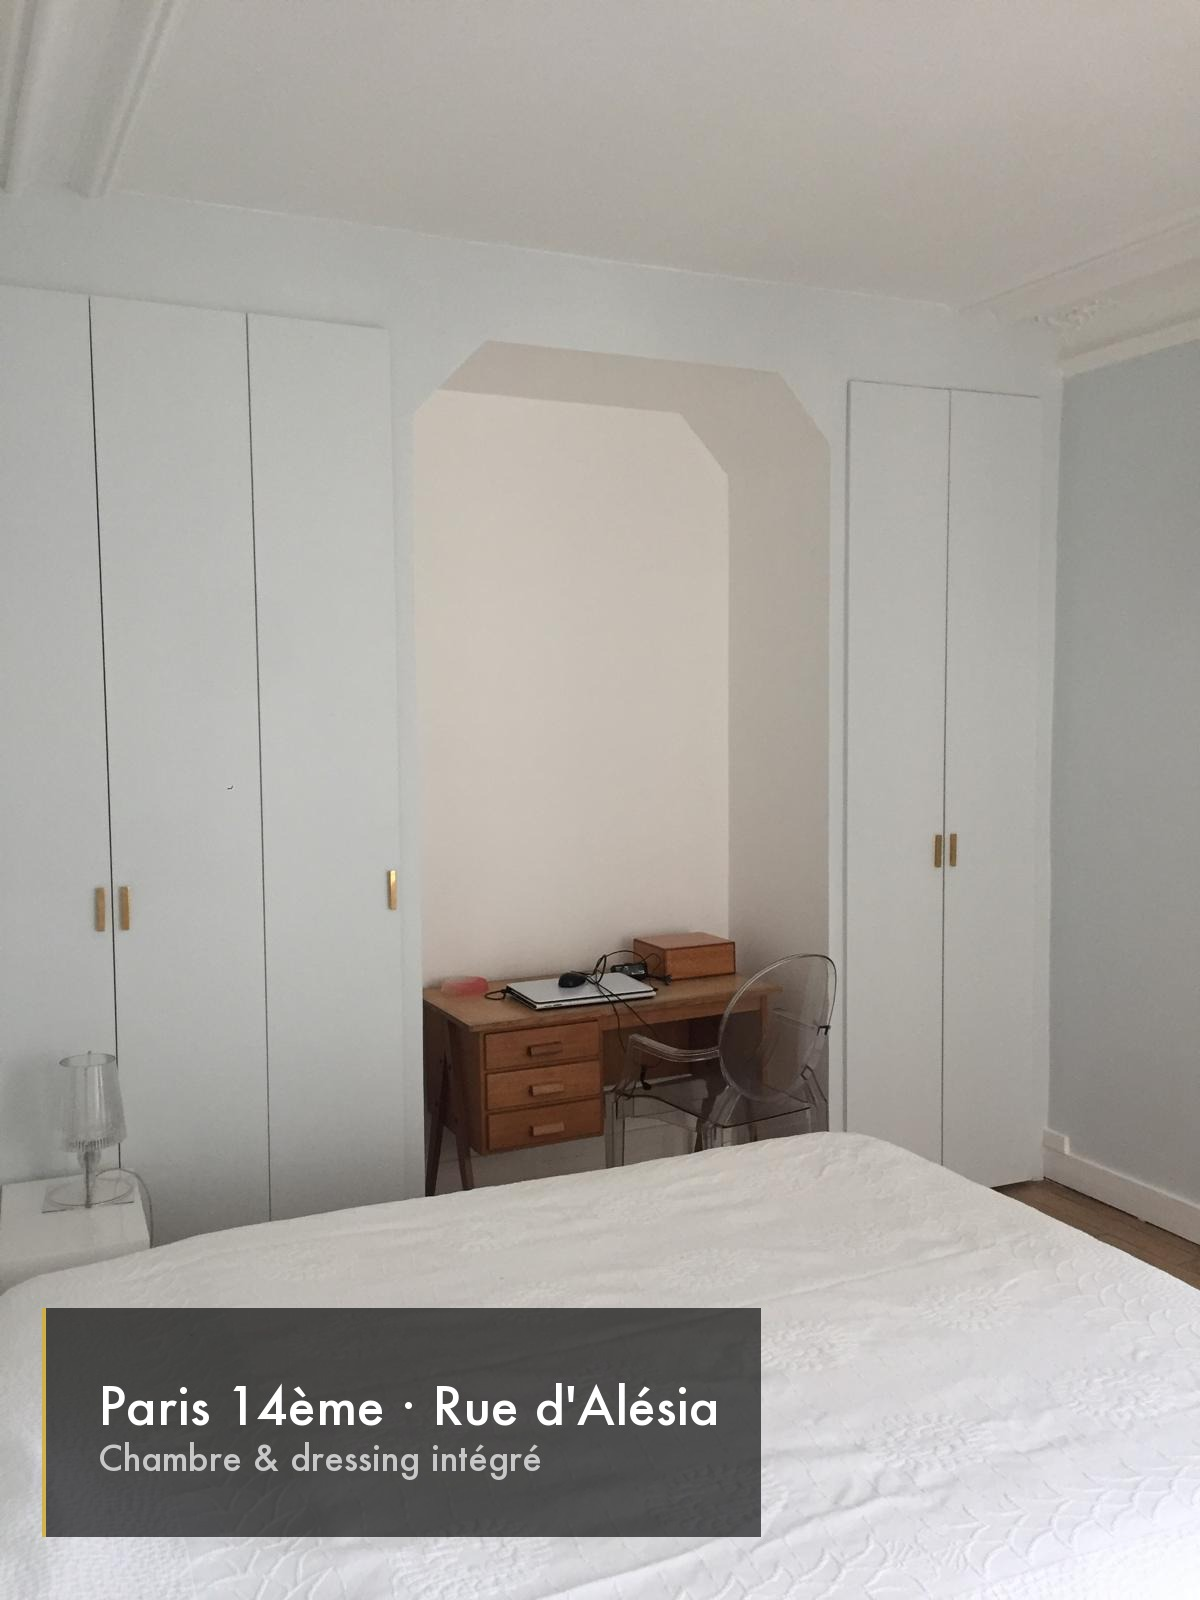
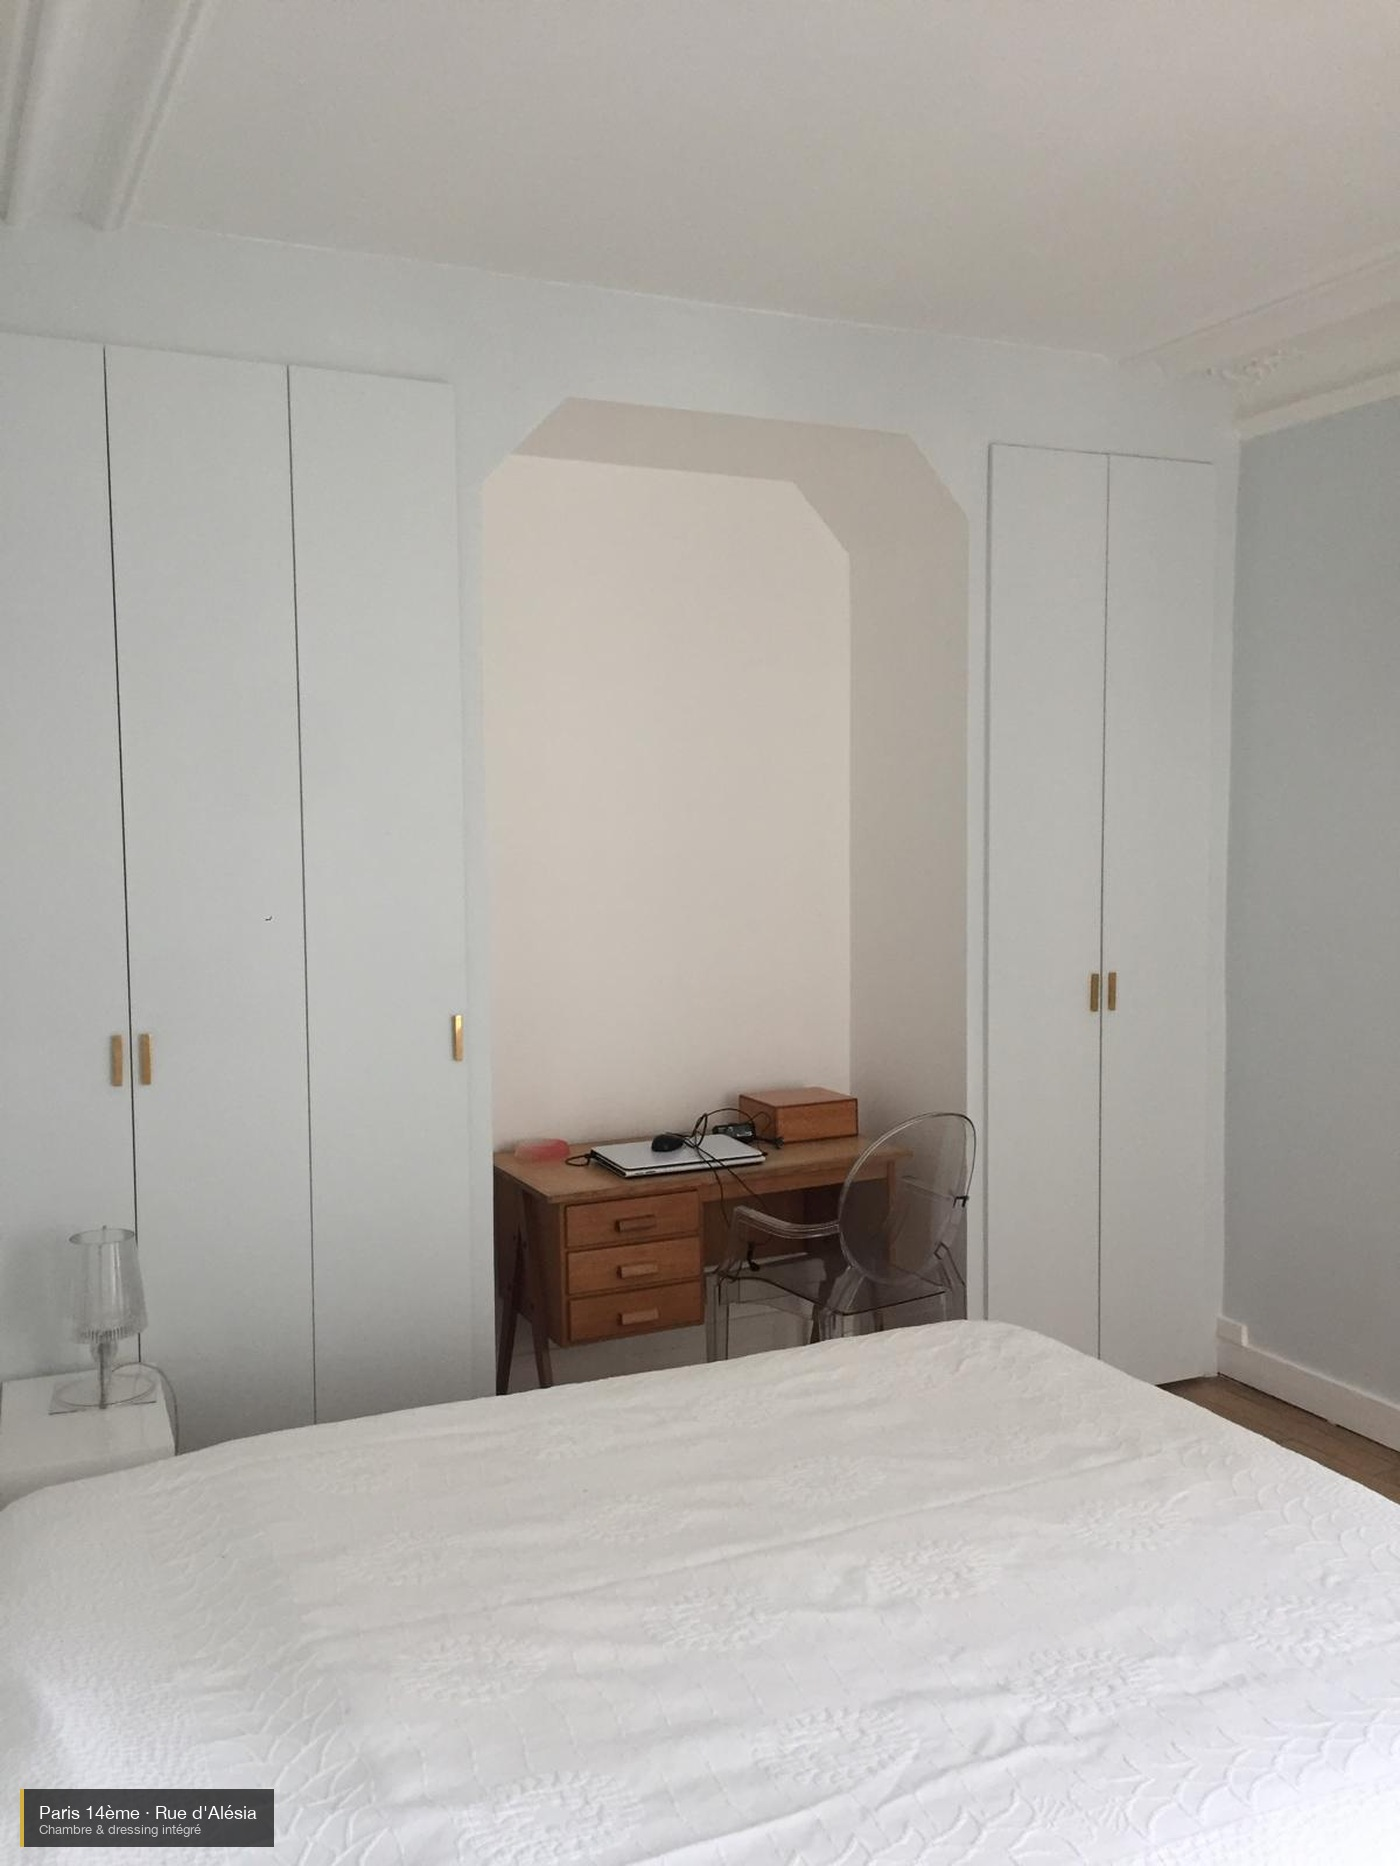
Photos overlay homogène + barre appel/devis mobile en haut de page

Changed region(s): [[0.0, 0.8125, 0.6475, 1.0]]

diff --git a/src/components/Header.tsx b/src/components/Header.tsx
@@ -15,7 +15,18 @@ export default function Header() {
   const [open, setOpen] = useState(false)
 
   return (
-    <header className="fixed top-0 left-0 right-0 z-50 bg-white/98 backdrop-blur-sm border-b border-gray-100/80">
+    <header className="fixed top-0 left-0 right-0 z-50">
+      {/* Barre appel mobile — visible dès l'arrivée */}
+      <div className="md:hidden bg-[#1C1C1C] text-white flex items-center justify-between px-4 py-2.5 gap-2">
+        <a href="tel:+33611783867" className="flex items-center gap-2 text-sm font-light tracking-wide">
+          <Phone size={14} />
+          <span>06 11 78 38 67</span>
+        </a>
+        <a href="/contact" className="bg-[#B8960C] text-white text-xs font-medium px-3 py-1.5 rounded tracking-wide">
+          Devis gratuit
+        </a>
+      </div>
+      <div className="bg-white/98 backdrop-blur-sm border-b border-gray-100/80">
       <div className="max-w-6xl mx-auto px-4 sm:px-6">
         <div className="flex items-center justify-between h-16 sm:h-20">
           {/* Logo */}
@@ -59,6 +70,8 @@ export default function Header() {
             {open ? <X size={22} /> : <Menu size={22} />}
           </button>
         </div>
+      </div>
+
       </div>
 
       {/* Mobile nav */}

diff --git a/public/photos/add_location.py b/public/photos/add_location.py
@@ -1,0 +1,120 @@
+#!/usr/bin/env python3
+"""
+Génère toutes les photos avec un overlay homogène identique à l'exemple.
+Tailles FIXES — indépendantes des dimensions de la photo originale.
+"""
+
+from PIL import Image, ImageDraw, ImageFont
+import os
+
+PHOTOS_DIR = os.path.dirname(os.path.abspath(__file__))
+OUTPUT_DIR = os.path.join(PHOTOS_DIR, "selected")
+os.makedirs(OUTPUT_DIR, exist_ok=True)
+
+SELECTION = [
+    { "src": "WhatsApp Image 2026-04-19 at 11.42.36.jpeg",     "out": "01-salon-parisien-bibliotheque.jpg",  "lieu": "Paris 7ème · Avenue de Breteuil",         "desc": "Salon & bibliothèque sur-mesure" },
+    { "src": "WhatsApp Image 2026-04-19 at 11.42.36 (1).jpeg", "out": "02-bibliotheque-led.jpg",             "lieu": "Paris 16ème · Rue de la Pompe",            "desc": "Bibliothèque éclairée LED" },
+    { "src": "WhatsApp Image 2026-04-19 at 11.42.36 (3).jpeg", "out": "03-buffet-led.jpg",                  "lieu": "Paris 8ème · Boulevard Haussmann",         "desc": "Buffet sur-mesure & éclairage intégré" },
+    { "src": "WhatsApp Image 2026-04-19 at 11.43.47.jpeg",     "out": "04-terrasse-vue-paris.jpg",          "lieu": "Paris 9ème · Rue La Fayette",             "desc": "Terrasse — lames composite" },
+    { "src": "WhatsApp Image 2026-04-19 at 11.43.53.jpeg",     "out": "05-terrasse-ciel-bleu.jpg",          "lieu": "Paris 17ème · Avenue des Ternes",         "desc": "Terrasse — vue dégagée" },
+    { "src": "WhatsApp Image 2026-04-19 at 11.47.48 (3).jpeg", "out": "06-salon-eclairage-theatre.jpg",     "lieu": "Paris 6ème · Rue de Vaugirard",           "desc": "Salon — éclairage architectural" },
+    { "src": "WhatsApp Image 2026-04-19 at 11.47.48 (4).jpeg", "out": "07-open-space-cuisine.jpg",         "lieu": "Paris 12ème · Avenue Daumesnil",          "desc": "Open space cuisine & séjour" },
+    { "src": "WhatsApp Image 2026-04-19 at 11.47.47.jpeg",     "out": "08-couloir-moderne.jpg",            "lieu": "Paris 15ème · Rue de la Convention",      "desc": "Couloir & aménagement global" },
+    { "src": "WhatsApp Image 2026-04-19 at 11.47.48 (2).jpeg", "out": "09-chambre-tete-lit.jpg",           "lieu": "Paris 11ème · Boulevard Voltaire",        "desc": "Chambre — tête de lit & dressing" },
+    { "src": "WhatsApp Image 2026-04-19 at 11.47.48 (6).jpeg", "out": "10-appartement-globe.jpg",          "lieu": "Paris 3ème · Rue du Temple",              "desc": "Rénovation complète appartement" },
+    { "src": "WhatsApp Image 2026-04-19 at 11.47.48 (7).jpeg", "out": "11-chambre-dressing.jpg",           "lieu": "Paris 14ème · Rue d'Alésia",              "desc": "Chambre & dressing intégré" },
+    { "src": "WhatsApp Image 2026-04-19 at 11.47.47 (2).jpeg", "out": "12-salle-bain.jpg",                 "lieu": "Paris 10ème · Faubourg Saint-Denis",      "desc": "Salle de bain — carreaux de ciment" },
+    { "src": "WhatsApp Image 2026-04-19 at 11.47.48.jpeg",     "out": "13-bureau-dressing.jpg",            "lieu": "Paris 13ème · Avenue de Choisy",          "desc": "Bureau & dressing sur-mesure" },
+    { "src": "WhatsApp Image 2026-04-19 at 11.42.37.jpeg",     "out": "14-meuble-tv-beton.jpg",            "lieu": "Paris 5ème · Rue Mouffetard",             "desc": "Meuble TV effet béton ciré" },
+    { "src": "WhatsApp Image 2026-04-19 at 11.47.48 (9).jpeg", "out": "15-chambre-niche-led.jpg",          "lieu": "Paris 4ème · Île Saint-Louis",            "desc": "Chambre — niche & rangement éclairé" },
+]
+
+# ─── Paramètres FIXES pour overlay homogène ───────────────────────────────
+TARGET_WIDTH  = 1400          # toutes les photos normalisées à cette largeur
+FONT_SIZE_LIEU = 18           # taille fixe adresse
+FONT_SIZE_DESC = 13           # taille fixe description
+PAD_X  = 16                   # padding horizontal intérieur
+PAD_Y  = 12                   # padding vertical intérieur
+BORDER = 3                    # épaisseur trait doré gauche
+GAP    = 6                    # espace entre les deux lignes de texte
+MARGIN = 20                   # marge depuis le bord de la photo
+GOLD   = (212, 175, 55, 240)  # couleur trait doré
+BG     = (15, 15, 15, 185)    # fond sombre semi-transparent
+
+font_paths = [
+    "/System/Library/Fonts/HelveticaNeue.ttc",
+    "/System/Library/Fonts/Helvetica.ttc",
+    "/Library/Fonts/Arial.ttf",
+    "/System/Library/Fonts/Arial.ttf",
+]
+
+def load_font(size):
+    for fp in font_paths:
+        if os.path.exists(fp):
+            try:
+                return ImageFont.truetype(fp, size)
+            except Exception:
+                continue
+    return ImageFont.load_default()
+
+font_lieu = load_font(FONT_SIZE_LIEU)
+font_desc = load_font(FONT_SIZE_DESC)
+
+def process(src_path, out_path, lieu, desc):
+    img = Image.open(src_path).convert("RGB")
+    W, H = img.size
+
+    # Normaliser largeur → TARGET_WIDTH
+    ratio = TARGET_WIDTH / W
+    new_h = int(H * ratio)
+    img = img.resize((TARGET_WIDTH, new_h), Image.LANCZOS)
+    W, H = img.size
+
+    # Mesurer textes
+    dummy = ImageDraw.Draw(img)
+    bb_lieu = dummy.textbbox((0, 0), lieu, font=font_lieu)
+    bb_desc = dummy.textbbox((0, 0), desc, font=font_desc)
+    tw_lieu = bb_lieu[2] - bb_lieu[0]
+    tw_desc = bb_desc[2] - bb_desc[0]
+    th_lieu = bb_lieu[3] - bb_lieu[1]
+    th_desc = bb_desc[3] - bb_desc[1]
+
+    box_w = max(tw_lieu, tw_desc) + PAD_X * 2 + BORDER
+    box_h = th_lieu + GAP + th_desc + PAD_Y * 2
+
+    x0 = MARGIN
+    y0 = H - MARGIN - box_h
+
+    # Overlay
+    overlay = Image.new("RGBA", img.size, (0, 0, 0, 0))
+    d = ImageDraw.Draw(overlay)
+
+    # Fond
+    d.rectangle([x0, y0, x0 + box_w, y0 + box_h], fill=BG)
+    # Trait doré gauche
+    d.rectangle([x0, y0, x0 + BORDER, y0 + box_h], fill=GOLD)
+
+    img = img.convert("RGBA")
+    img = Image.alpha_composite(img, overlay).convert("RGB")
+    draw = ImageDraw.Draw(img)
+
+    tx = x0 + BORDER + PAD_X
+    ty_lieu = y0 + PAD_Y
+    ty_desc = ty_lieu + th_lieu + GAP
+
+    draw.text((tx, ty_lieu), lieu, font=font_lieu, fill=(255, 255, 255))
+    draw.text((tx, ty_desc), desc, font=font_desc, fill=(200, 200, 200))
+
+    img.save(out_path, "JPEG", quality=93)
+    print(f"  ✓  {os.path.basename(out_path)}")
+
+print("Génération des photos avec overlay homogène…")
+for item in SELECTION:
+    src = os.path.join(PHOTOS_DIR, item["src"])
+    out = os.path.join(OUTPUT_DIR, item["out"])
+    if not os.path.exists(src):
+        print(f"  ⚠  Manquant : {item['src']}")
+        continue
+    process(src, out, item["lieu"], item["desc"])
+
+print(f"\n✅ {len(SELECTION)} photos → {OUTPUT_DIR}")
